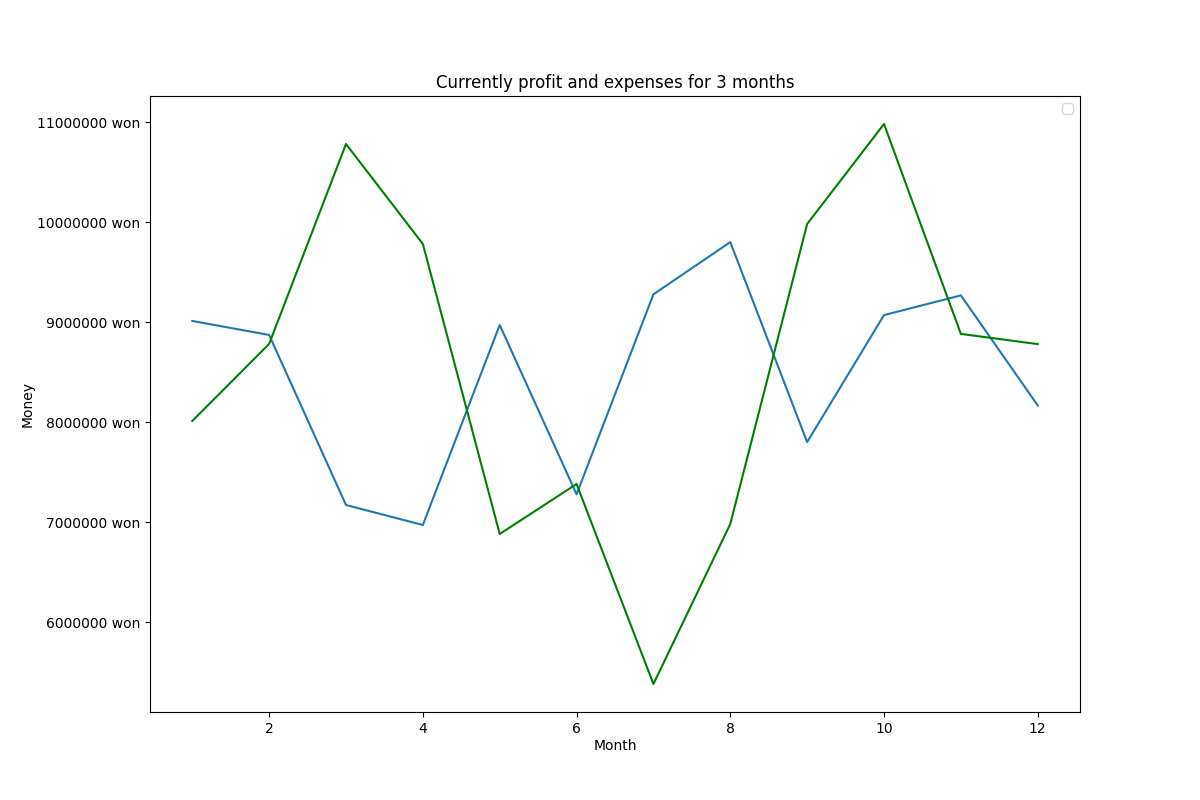
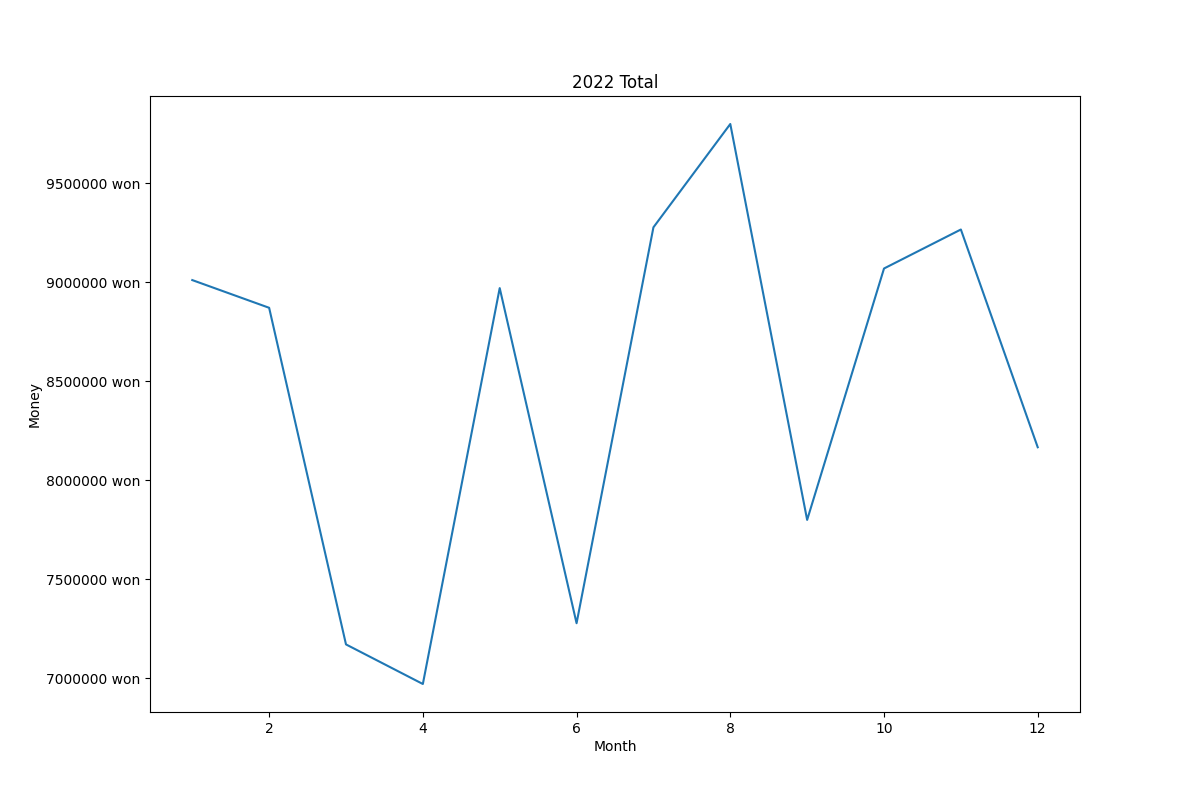
2022_1_1_data_analyze

diff --git a/src/public/js/home/profitMonth.js b/src/public/js/home/profitMonth.js
@@ -1,0 +1,122 @@
+"use strict"
+
+const year1 = document.querySelector("#year1");
+const year2 = document.querySelector("#year2");
+const recap = document.querySelector("#recap");
+const total = document.querySelector("#total");
+const electro = document.querySelector("#electro");
+const water = document.querySelector("#water");
+const monthFee = document.querySelector("#monthFee");
+const parttime = document.querySelector("#parttime");
+const profit = document.querySelector("#profit");
+
+year1.addEventListener("click", year_click1);
+year2.addEventListener("click", year_click2);
+recap.addEventListener("click", recap_click);
+total.addEventListener("click", total_click);
+electro.addEventListener("click", electro_click);
+water.addEventListener("click", water_click);
+monthFee.addEventListener("click", monthFee_click);
+parttime.addEventListener("click", parttime_click);
+profit.addEventListener("click", profit_click);
+
+var year1_ava = 0;
+var year2_ava = 0;
+var recap_ava = 0;
+var total_ava = 0;
+var electro_ava = 0;
+var water_ava = 0;
+var monthFee_ava = 0;
+var parttime_ava = 0;
+var profit_ava = 0;
+
+function year_click1(){
+    if(year1_ava == 0){
+        year1.style.background = 'black'
+        year1_ava = 1
+    }
+    else if(year1_ava == 1){
+        year1.style.background = '#86242a'
+        year1_ava = 0
+    }
+}
+function year_click2(){
+    if(year2_ava == 0){
+        year2.style.background = 'black'
+        year2_ava = 1
+    }
+    else if(year2_ava == 1){
+        year2.style.background = '#86242a'
+        year2_ava = 0
+    }
+}
+function recap_click(){
+    if(recap_ava == 0){
+        recap.style.background = 'black'
+        recap_ava = 1
+    }
+    else if(recap_ava == 1){
+        recap.style.background = '#86242a'
+        recap_ava = 0
+    }
+}
+function total_click(){
+    if(total_ava == 0){
+        total.style.background = 'black'
+        total_ava = 1
+    }
+    else if(total_ava == 1){
+        total.style.background = '#86242a'
+        total_ava = 0
+    }
+}
+function electro_click(){
+    if(electro_ava == 0){
+        electro.style.background = 'black'
+        electro_ava = 1
+    }
+    else if(electro_ava == 1){
+        electro.style.background = '#86242a'
+        electro_ava = 0
+    }
+}
+function water_click(){
+    if(water_ava == 0){
+        water.style.background = 'black'
+        water_ava = 1
+    }
+    else if(water_ava == 1){
+        water.style.background = '#86242a'
+        water_ava = 0
+    }
+}
+function monthFee_click(){
+    if(monthFee_ava == 0){
+        monthFee.style.background = 'black'
+        monthFee_ava = 1
+    }
+    else if(monthFee_ava == 1){
+        monthFee.style.background = '#86242a'
+        monthFee_ava = 0
+    }
+}
+function parttime_click(){
+    if(parttime_ava == 0){
+        parttime.style.background = 'black'
+        parttime_ava = 1
+    }
+    else if(parttime_ava == 1){
+        parttime.style.background = '#86242a'
+        parttime_ava = 0
+    }
+}
+function profit_click(){
+    if(profit_ava == 0){
+        profit.style.background = 'black'
+        profit_ava = 1
+    }
+    else if(profit_ava == 1){
+        profit.style.background = '#86242a'
+        profit_ava = 0
+    }
+}

diff --git a/src/public/css/home/success.css b/src/public/css/home/success.css
@@ -15,10 +15,30 @@
     text-align: center;
     margin: 10px 10px;
 }
-
-.data{
+.year_data{
+    align-items: center;
     padding: 5px 10px;
+    background-color:  #86242a;
+    color: white;
+    border-radius: 2em;
 }
+.year_data:hover{
+    background:  black;
+    opacity: 0.8;
+}
+.data{
+    align-items: center;
+    padding: 5px 10px;
+    background-color:  #86242a;
+    color: white;
+    border-radius: 2em;
+}
+
+.data:hover{
+    background:  black;
+    opacity: 0.8;
+}
+
 .logo {
     text-align: center;
     font-size: 50px;

diff --git a/src/public/python/home/profit_month.py b/src/public/python/home/profit_month.py
@@ -5,6 +5,18 @@ import os
 import sys
 import pandas as pd
 
+def year_total(total, month, year):
+    year = year.iloc[0]
+    month = list(month.to_numpy())
+    total = list(total.to_numpy())
+    plt.figure(figsize=(12, 8))
+    plt.plot(month, total)
+    plt.xlabel("Month", labelpad=3)
+    plt.ylabel("Money", labelpad=3)
+    plt.gca().xaxis.set_major_formatter(mticker.FormatStrFormatter('%d'))
+    plt.gca().yaxis.set_major_formatter(mticker.FormatStrFormatter('%d won'))
+    plt.title(str(year) + " Total")
+    plt.savefig('./src/views/images/total.png')
 
 def getName(month, year, total, electro, water, monthFee, parttime):
 
@@ -15,32 +27,36 @@ def getName(month, year, total, electro, water, monthFee, parttime):
     water = list(map(int, water.split(",")))
     monthFee = list(map(int, monthFee.split(",")))
     parttime = list(map(int, parttime.split(",")))
-
     data = pd.DataFrame(zip(year, month, total, electro, water, monthFee, parttime), columns= ['year', 'month', 'total', 'electro', 'water', 'monthFee', 'parttime'])
     data_2022 = data[data['year'] == 2022].sort_values(by='month')
     data_2021 = data[data['year'] == 2021].sort_values(by='month')
     
-    plt.figure(figsize=(12, 8))
-    plt.plot(data_2022['month'], data_2022['total'])
-    plt.plot(data_2021['month'], data_2021['total'], 'g')
-    # plt.plot(x, y1, label = 'total')
-    # plt.plot(x, y2, 'x')
-    # plt.plot(x, y2, label = 'electro')
-    # plt.plot(x, y3, '^')
-    # plt.plot(x, y3, label = 'water')
-    # plt.plot(x, y4, '.')
-    # plt.plot(x, y4, label = 'monthFee')
-    # plt.plot(x, y5, '^')
-    # plt.plot(x, y5, label = 'partTime')    
-    # plt.axis([9, 13, 0, 1500000])
-    plt.gca().xaxis.set_major_formatter(mticker.FormatStrFormatter('%d'))
-    plt.gca().yaxis.set_major_formatter(mticker.FormatStrFormatter('%d won'))
-    plt.xlabel("Month", labelpad=2)
-    plt.ylabel("Money", labelpad=2)
-    plt.legend()
-    plt.title("Currently profit and expenses for 3 months")
-    plt.savefig('./src/views/images/total.png')
+    year_total(data_2022['total'], data_2022['month'], data_2022['year'])
+
+
 
 if __name__ == '__main__':
     getName(sys.argv[1], sys.argv[2], sys.argv[3], sys.argv[4], sys.argv[5], sys.argv[6], sys.argv[7])
 
+
+
+# plt.figure(figsize=(12, 8))
+# plt.plot(data_2022['month'], data_2022['total'])
+# plt.plot(data_2021['month'], data_2021['total'], 'g')
+# plt.plot(x, y1, label = 'total')
+# plt.plot(x, y2, 'x')
+# plt.plot(x, y2, label = 'electro')
+# plt.plot(x, y3, '^')
+# plt.plot(x, y3, label = 'water')
+# plt.plot(x, y4, '.')
+# plt.plot(x, y4, label = 'monthFee')
+# plt.plot(x, y5, '^')
+# plt.plot(x, y5, label = 'partTime')    
+# plt.axis([9, 13, 0, 1500000])
+# plt.gca().xaxis.set_major_formatter(mticker.FormatStrFormatter('%d'))
+# plt.gca().yaxis.set_major_formatter(mticker.FormatStrFormatter('%d won'))
+# plt.xlabel("Month", labelpad=2)
+# plt.ylabel("Money", labelpad=2)
+# # plt.legend()
+# plt.title("Currently profit and expenses for 3 months")
+# plt.savefig('./src/views/images/total.png')
